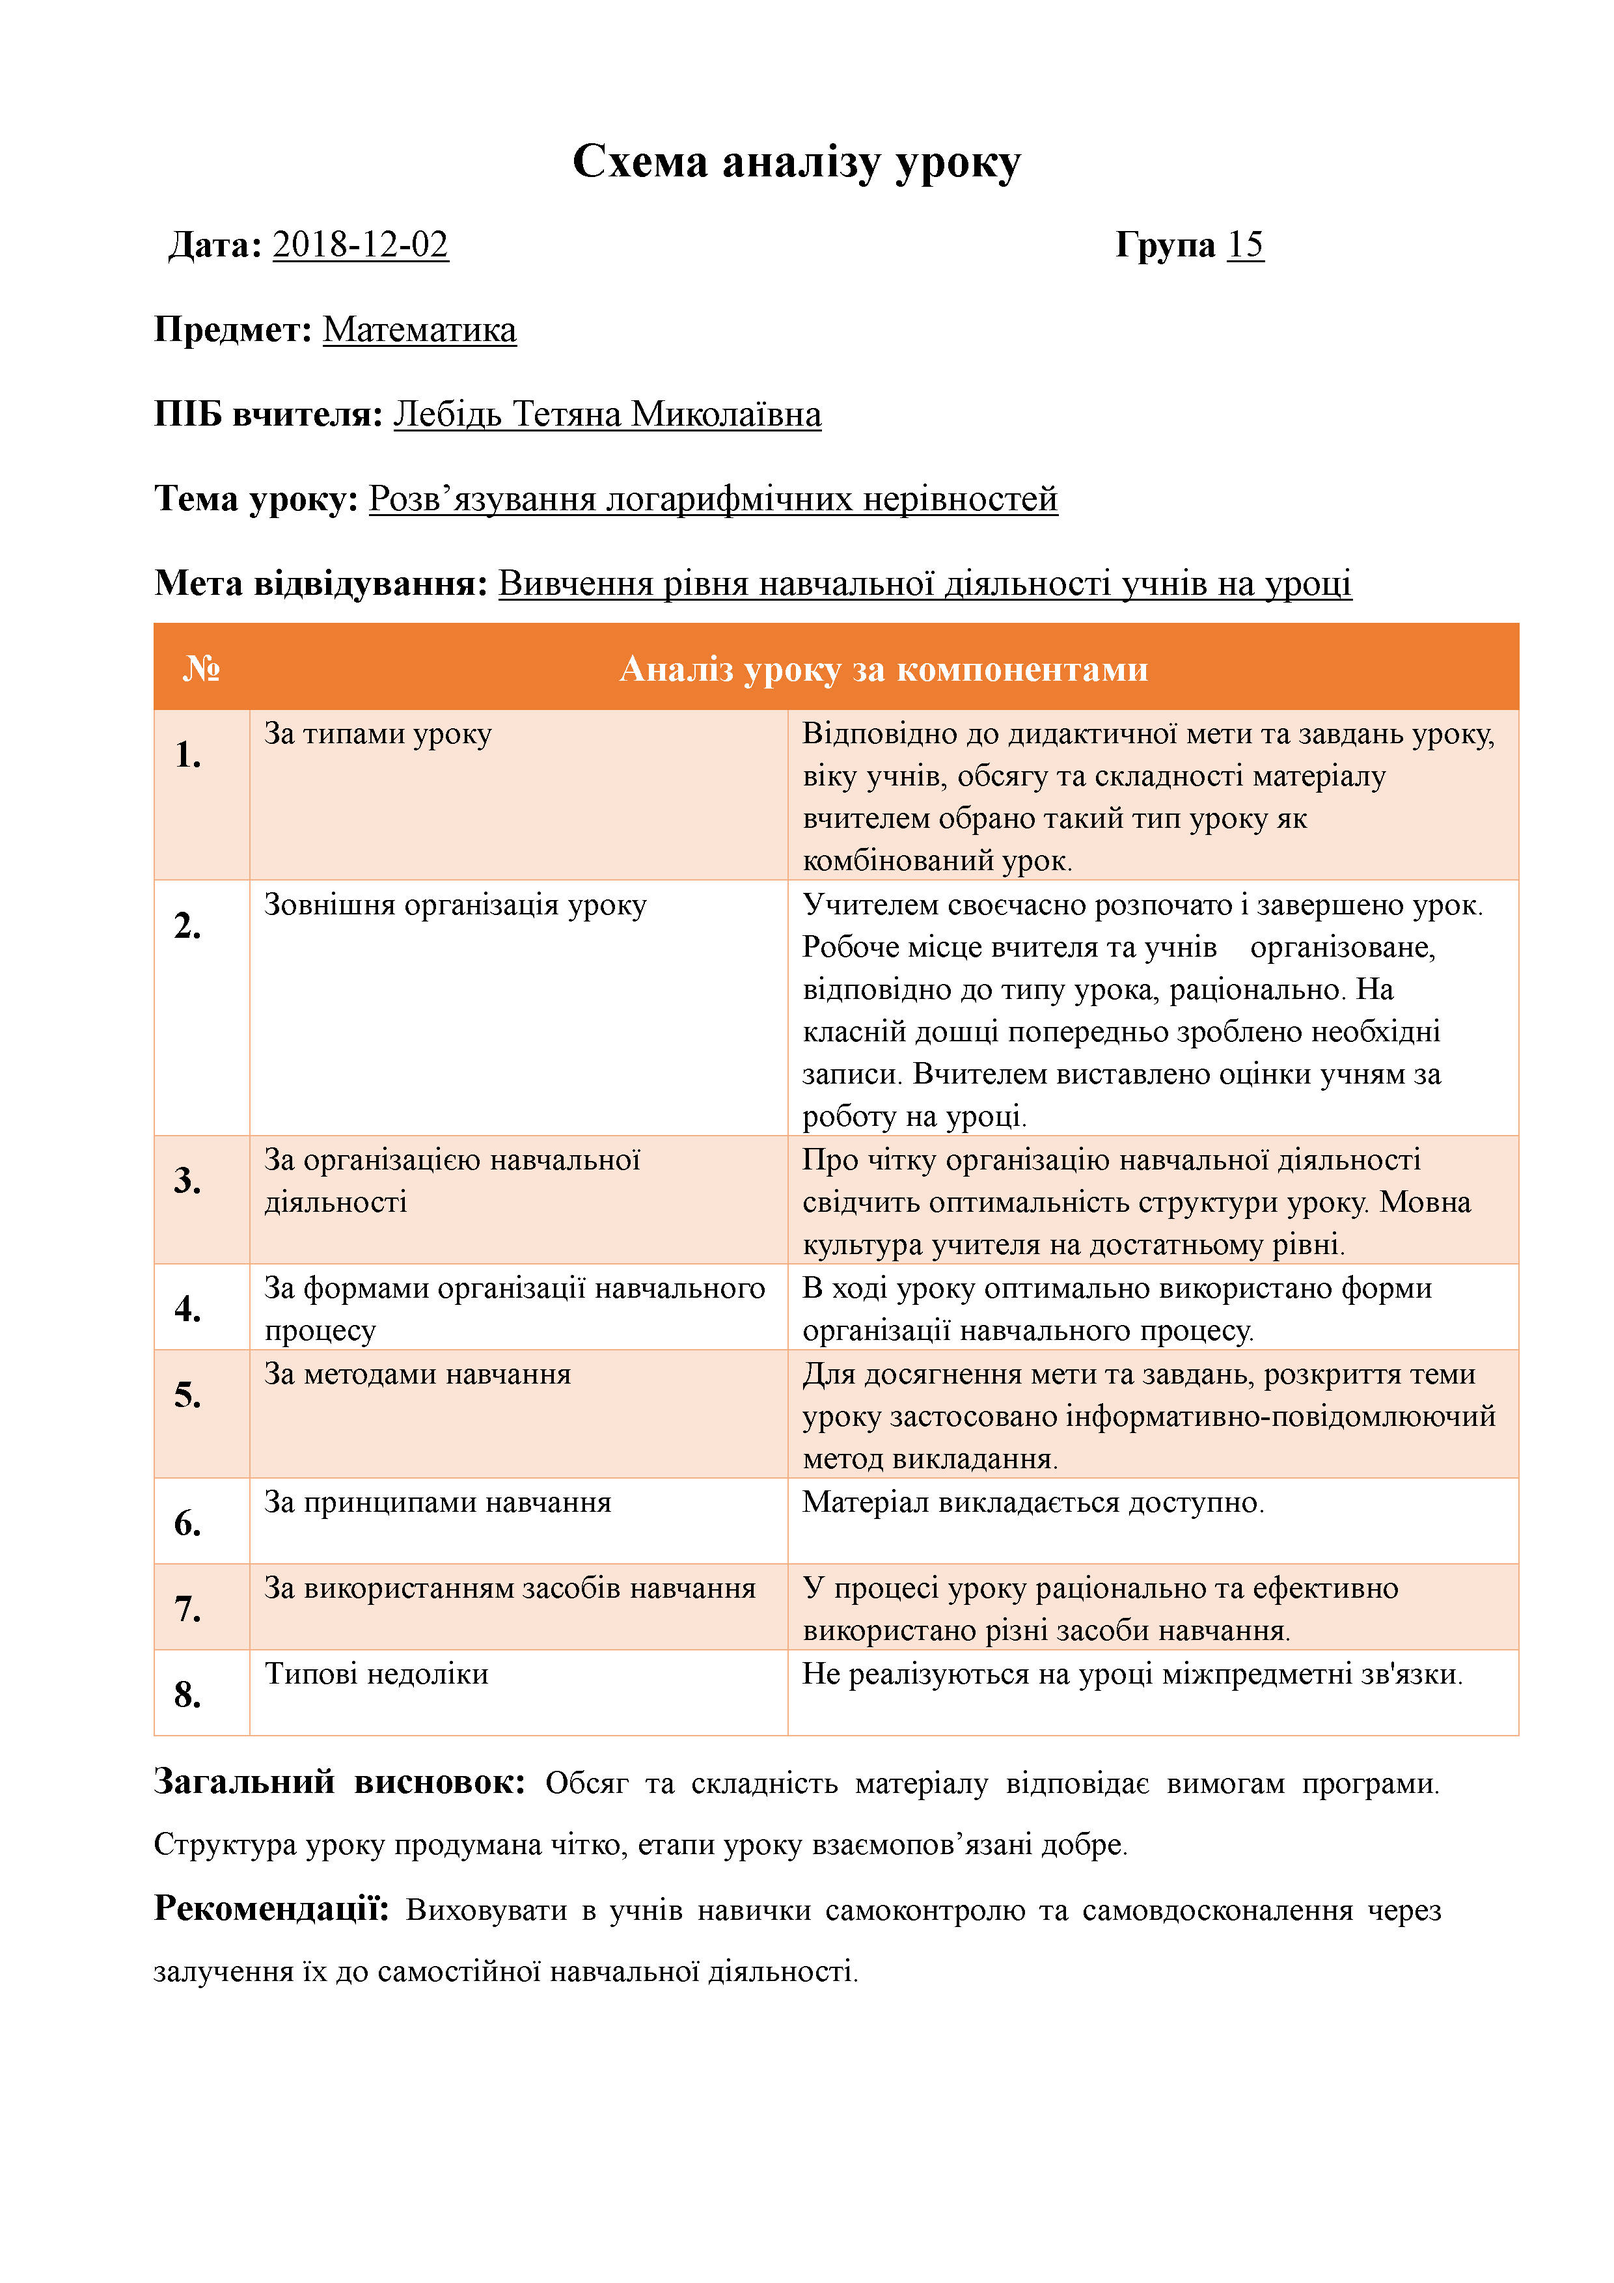
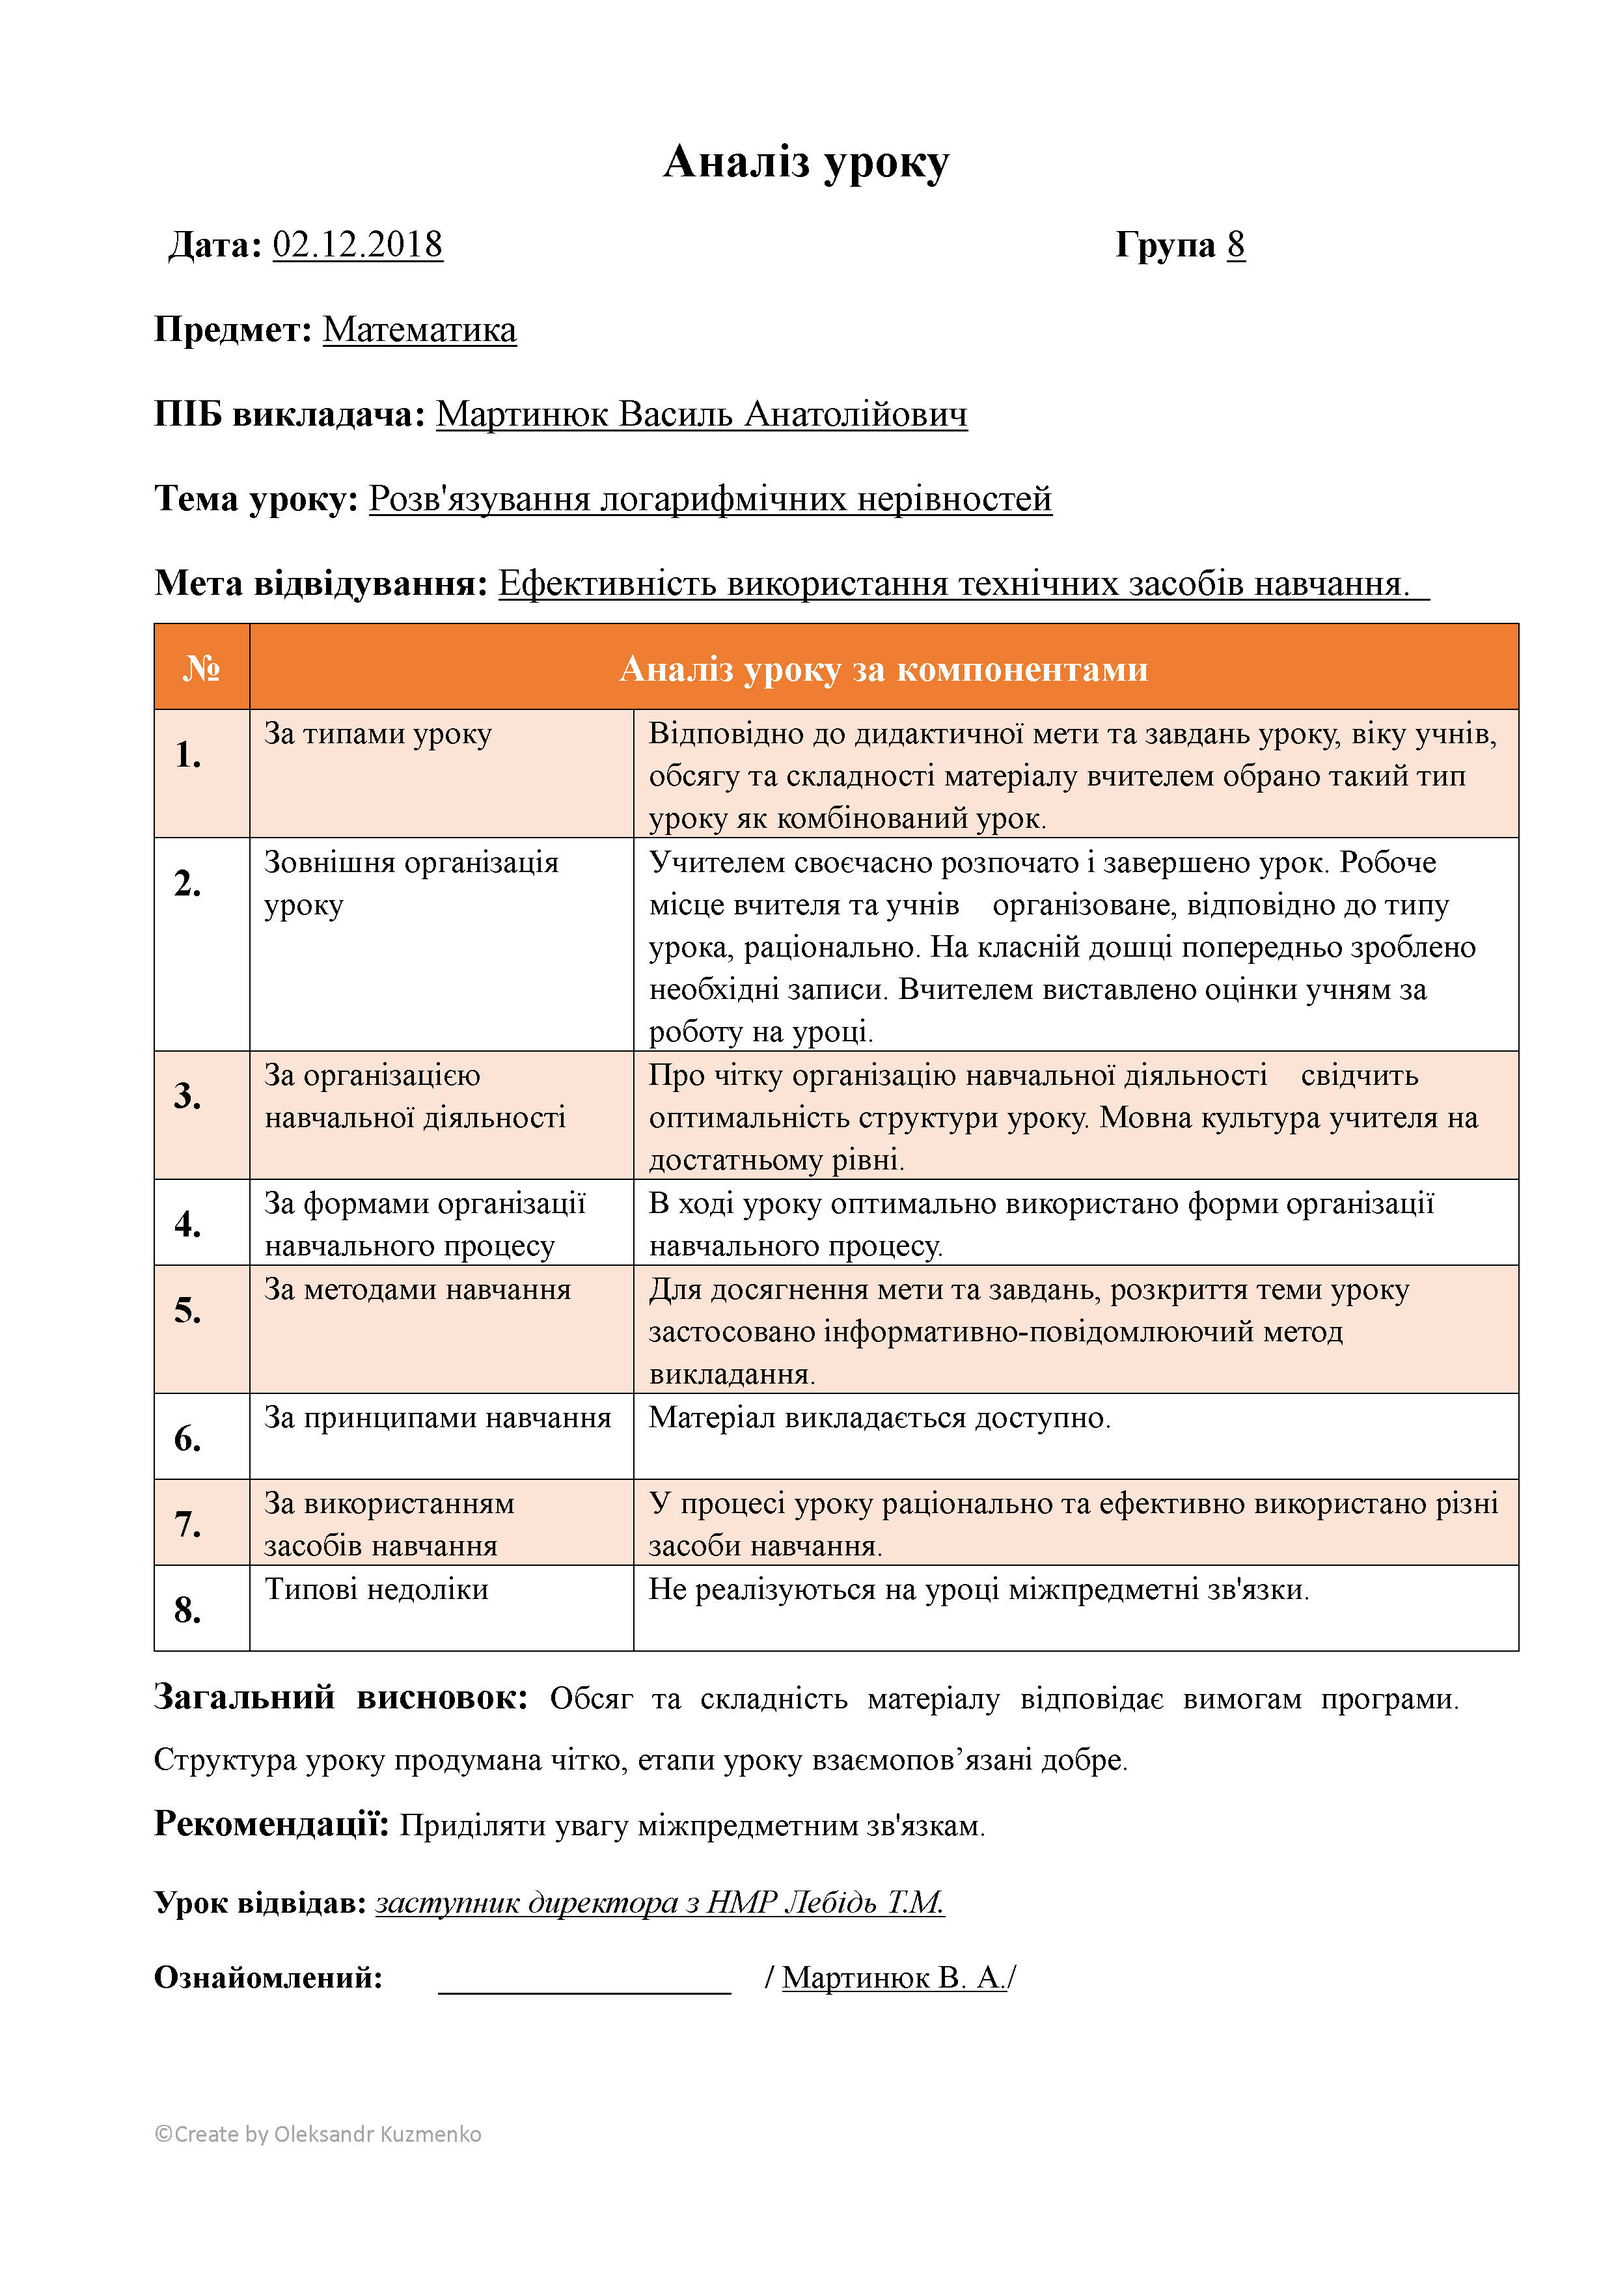
add new image and edit readme

diff --git a/README.md b/README.md
@@ -1,5 +1,12 @@
 # lesson-analysis
 Програма для оптимізації аналізу відвіданого уроку.
+ Відвідування й аналізування уроку та виховного заходу — це основне джерело знань про якість навчання і виховання в школі, про можливості педагогічного колективу для підвищення своєї професійної компетентності. 
+ Спостереження й аналіз уроку та виховного заходу — найскладніші серед посадових обов’язків заступників директорів із об’єктивних причин: доводиться аналізувати уроки з багатьох предметів інваріативної та варіативної частин навчальних планів, предмети за вибором, факультативи, позакласні заходи. 
+ Тим паче, що викладання кожного предмета ґрунтується не лише на основі загальних педагогічних закономірностей, а й має специфіку в змісті й методах викладання.
+
+Досить часто аналіз уроків здійснюють у хронологічній послідовності перебігу уроку, фіксують лише зовнішні чинники; часто відсутня обґрунтована мета відвідування уроку та його аналізу; іноді під час аналізу керівники шкіл обмежуються загальними вказівками та несуттєвими зауваженнями; під час спостереження за перебігом уроку не завжди виходять на зв’язок між триєдиною метою уроку і його типом, між метою і змістом навчального матеріалу.
+
+► Такий аналіз можна зробити лише за наявності якісного програмного продукту.
 
 Ідея: Лебідь Тетяна Миколаївна (lebtannik@ukr.net)      
 (c) Над створенням програми працював: Кузьменко Олександр (okuzmenkoa@gmail.com)
@@ -8,7 +15,7 @@
 1. Завантажити архів з програмою: https://github.com/KAleksandr/lesson_analysis/raw/master/src/main/resources/app/lesson_analysis.rar
 2. Розархівувати завантажений архів
 3. Завантажити та встановити Sun Java JRE (Якщо не встановлено!) https://java.com/ru/download/ 
-3. Запустити *start.bat*(Windows), для інших систем lesson_analysis.jar
+3. Запустити *start.bat* (Windows), для інших систем lesson_analysis.jar
 
 ### Загальні відомості про програму: ###
 Програма реалізована засобами мови програмування Java з використанням бібліотеки графічних компонентів JavaFx. Вибір мови програмування Java пов'язаний насамперед із тим, що програми розроблені засобами даної мови програмування – можуть виконуватись на комп'ютерах з різними операційними системами (наприклад: Linux, Windows, MacOS, тощо).
@@ -26,10 +33,13 @@
 
 ### Графічний інтерфейс програми: ###
 На даних зображеннях наведено приклад роботи програми:
-
+Форма заповнена в цілях демонстрації роботи програми.
+####Приклад 1 з "група"
 ![Screenshot](https://raw.githubusercontent.com/KAleksandr/lesson_analysis/master/src/main/resources/images/lesson_analysis.png)
 
 #### Результатом роботи програми є створений файл "Схема аналізу уроку".
 
 ![Screenshot](https://raw.githubusercontent.com/KAleksandr/lesson_analysis/master/src/main/resources/images/analysisLesson.jpg)
-
+####Приклад 1 з "клас"
+![Screenshot](https://raw.githubusercontent.com/KAleksandr/lesson_analysis/master/src/main/resources/images/lesson_analysis2.png)
+![Screenshot](https://raw.githubusercontent.com/KAleksandr/lesson_analysis/master/src/main/resources/images/analysisLesson2.jpg)
